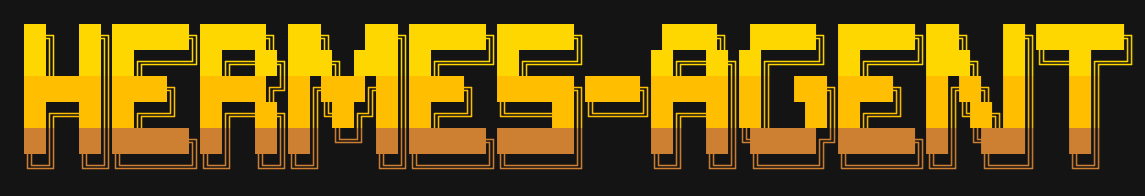
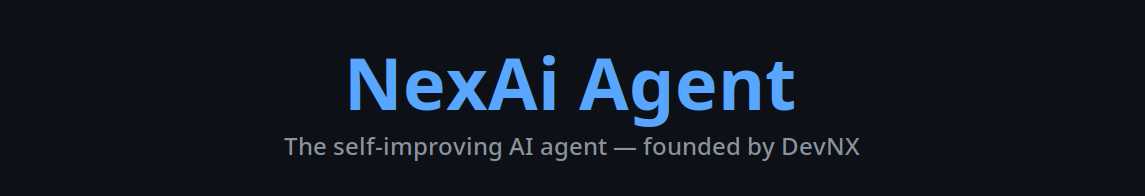
chore: remove external dependencies on Nous Research infrastructure
- Disable update check (no longer pings github.com/NousResearch)
- Replace banner.png with clean NexAi branded banner
- Remove 'nous' provider plugin and unregister from all catalogs
- Remove 'nous' from PROVIDER_REGISTRY in auth.py
- Remove 'nous' from aggregator providers, model catalogs, dump
- Update install.sh and install.ps1 to use YOUR_ORG placeholder URLs
- Clean remaining Nous Research references from core code

diff --git a/nexai_cli/model_switch.py b/nexai_cli/model_switch.py
@@ -552,10 +552,10 @@ def _resolve_alias_fallback(
 ) -> Optional[tuple[str, str, str]]:
     """Try to resolve an alias on the user's authenticated providers.
 
-    Falls back to ``("openrouter", "nous")`` only when no authenticated
+    Falls back to ``("openrouter",)`` only when no authenticated
     providers are supplied (backwards compat for non-interactive callers).
     """
-    providers = authenticated_providers or ("openrouter", "nous")
+    providers = authenticated_providers or ("openrouter",)
     for provider in providers:
         result = resolve_alias(raw_input, provider)
         if result is not None:
@@ -1161,12 +1161,8 @@ def list_authenticated_providers(
     # Build curated model lists keyed by nexai provider ID
     curated: dict[str, list[str]] = dict(_PROVIDER_MODELS)
     curated["openrouter"] = [mid for mid, _ in OPENROUTER_MODELS]
-    # "nous" pulls from the remote model-catalog manifest published at
-    # https://nexai-agent.nousresearch.com/docs/api/model-catalog.json so
-    # newly added Portal models surface in the /model picker without
-    # requiring a nexai release. Falls back to the in-repo
-    # _PROVIDER_MODELS["nous"] snapshot when the manifest is unreachable.
-    curated["nous"] = get_curated_nous_model_ids()
+    # "nous" provider removed — was a Nous Research portal integration.
+    # curated["nous"] = get_curated_nous_model_ids()
     # Ollama Cloud uses dynamic discovery (no static curated list)
     if "ollama-cloud" not in curated:
         from nexai_cli.models import fetch_ollama_cloud_models

diff --git a/nexai_cli/providers.py b/nexai_cli/providers.py
@@ -50,11 +50,7 @@ NEXAI_OVERLAYS: Dict[str, nexaiOverlay] = {
         extra_env_vars=("OPENAI_API_KEY",),
         base_url_env_var="OPENROUTER_BASE_URL",
     ),
-    "nous": nexaiOverlay(
-        transport="openai_chat",
-        auth_type="oauth_device_code",
-        base_url_override="https://inference-api.nousresearch.com/v1",
-    ),
+    # "nous" provider removed — was a Nous Research portal integration.
     "openai-codex": nexaiOverlay(
         transport="codex_responses",
         auth_type="oauth_external",
@@ -350,7 +346,7 @@ ALIASES: Dict[str, str] = {
 # not in the catalog.
 
 _LABEL_OVERRIDES: Dict[str, str] = {
-    "nous": "Nous Portal",
+    # "nous" label removed — was "Nous Portal",
     "openai-codex": "OpenAI Codex",
     "copilot-acp": "GitHub Copilot ACP",
     "stepfun": "StepFun Step Plan",

diff --git a/nexai_cli/banner.py b/nexai_cli/banner.py
@@ -178,6 +178,15 @@ def _check_via_local_git(repo_dir: Path) -> Optional[int]:
 def check_for_updates() -> Optional[int]:
     """Check whether a nexai update is available.
 
+    DISABLED: No upstream update checks to avoid external dependencies.
+    Always returns None so the CLI never shows update prompts.
+    """
+    return None
+
+
+def _disabled_check_for_updates() -> Optional[int]:
+    """Original update check logic — disabled to avoid external dependencies.
+
     Two paths: if ``NEXAI_REVISION`` is set (nix builds embed it), compare
     it to upstream main via ``git ls-remote``. Otherwise look for a local
     git checkout and count commits behind ``origin/main``.

diff --git a/nexai_cli/auth.py b/nexai_cli/auth.py
@@ -147,15 +147,7 @@ class ProviderConfig:
 
 
 PROVIDER_REGISTRY: Dict[str, ProviderConfig] = {
-    "nous": ProviderConfig(
-        id="nous",
-        name="Nous Portal",
-        auth_type="oauth_device_code",
-        portal_base_url=DEFAULT_NOUS_PORTAL_URL,
-        inference_base_url=DEFAULT_NOUS_INFERENCE_URL,
-        client_id=DEFAULT_NOUS_CLIENT_ID,
-        scope=DEFAULT_NOUS_SCOPE,
-    ),
+    # "nous" provider removed — was a Nous Research portal integration.
     "openai-codex": ProviderConfig(
         id="openai-codex",
         name="OpenAI Codex",

diff --git a/nexai_cli/dump.py b/nexai_cli/dump.py
@@ -265,7 +265,7 @@ def run_dump(args):
         ("OPENAI_API_KEY", "openai"),
         ("ANTHROPIC_API_KEY", "anthropic"),
         ("ANTHROPIC_TOKEN", "anthropic_token"),
-        ("NOUS_API_KEY", "nous"),
+        # ("NOUS_API_KEY", "nous"),  # provider removed
         ("GOOGLE_API_KEY", "google/gemini"),
         ("GEMINI_API_KEY", "gemini"),
         ("GLM_API_KEY", "glm/zai"),

diff --git a/nexai_cli/model_normalize.py b/nexai_cli/model_normalize.py
@@ -66,7 +66,6 @@ _VENDOR_PREFIXES: dict[str, str] = {
 # Providers whose APIs consume vendor/model slugs.
 _AGGREGATOR_PROVIDERS: frozenset[str] = frozenset({
     "openrouter",
-    "nous",
     "ai-gateway",
     "kilocode",
 })

diff --git a/nexai_cli/model_catalog.py b/nexai_cli/model_catalog.py
@@ -33,7 +33,7 @@ Schema (version 1)
              "metadata": {...}}          # free-form, model-level
           ]
         },
-        "nous": {...}
+        # "nous" provider removed
       }
     }
 
